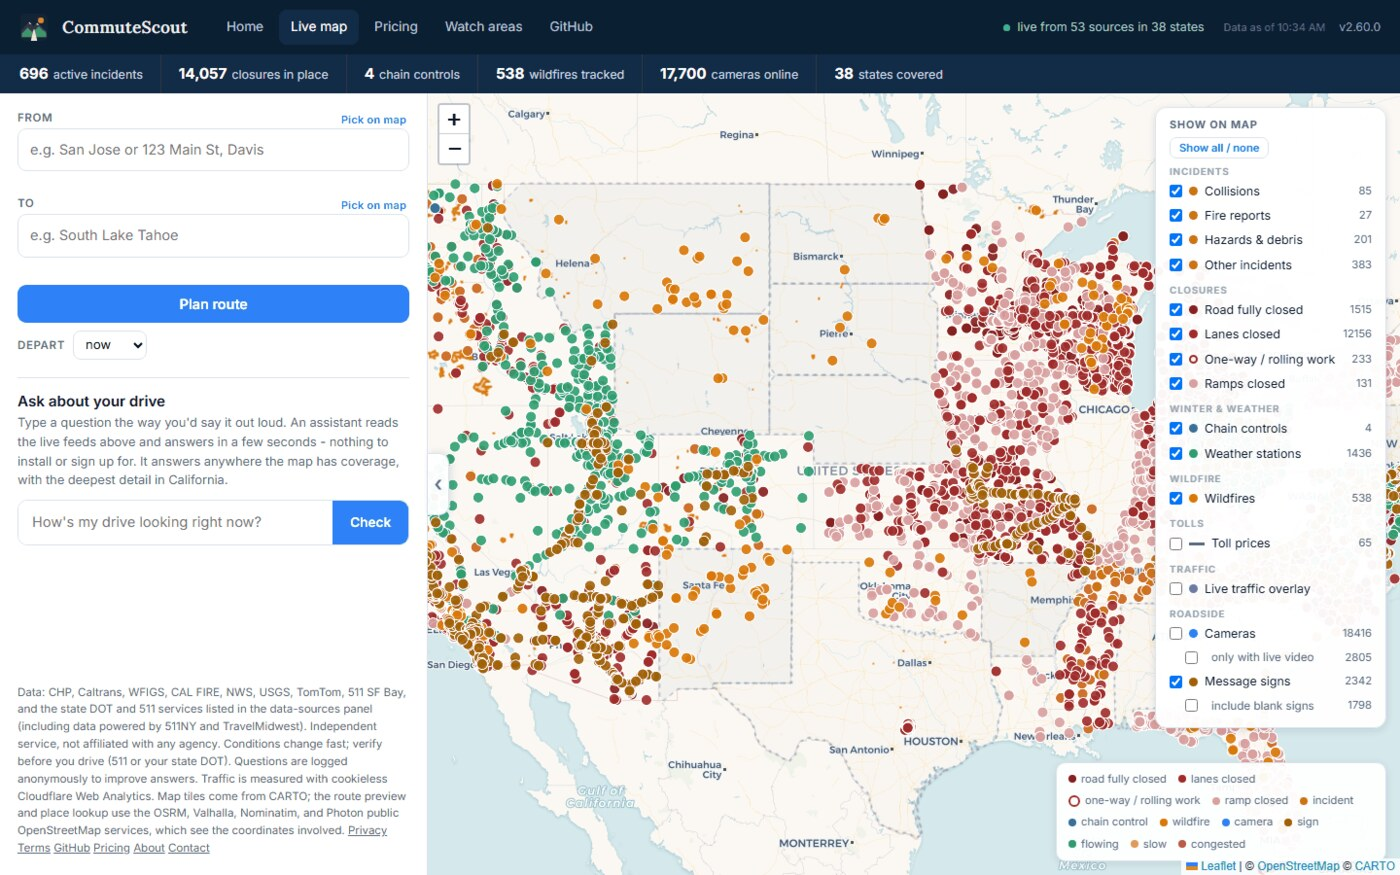
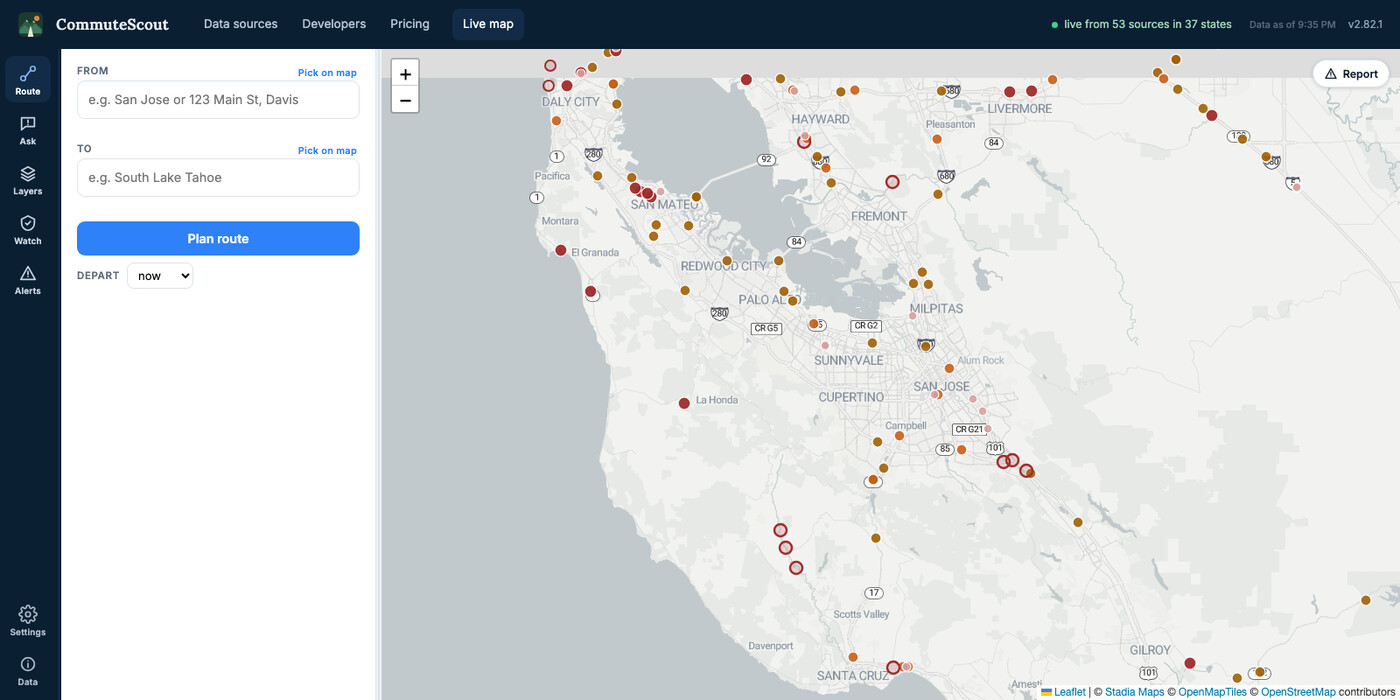
Refresh the CommuteScout feature: new map page, developer platform, Flare

diff --git a/index.html b/index.html
@@ -50,4 +50,4 @@ footer a:hover{color:#181a18;border-color:#181a18}
 :focus-visible{outline:2px solid #181a18;outline-offset:3px;border-radius:5px}
 @media(prefers-reduced-motion:reduce){*{transition:none!important}}
 .c,.hero{transition:border-color .15s ease}
-</style></head><body><div class="w"><header><h1>Nic Glazkov</h1><p class="tag">Building software about the physical world. CS student at Santa Clara University. Most of these are live, and I keep them running.</p><div class="links"><a href="https://github.com/nicglazkov">GitHub</a><a href="https://www.linkedin.com/in/nicholas-glazkov">LinkedIn</a></div></header><a class="hero" href="https://commutescout.com"><div class="ph"><img src="assets/cs-hero-map.jpg" alt="commutescout"></div><div class="in"><span class="flag">Featured</span><h3>commutescout</h3><p>Live road conditions from 53 official agency feeds across 37 states: incidents, closures, chain controls, cameras, wildfire perimeters, and toll pricing. Map, route planner, and an assistant you can ask about a drive. Also an MCP server.</p><div class="meta">commutescout.com</div></div></a><h2>Live services</h2><div class="g"><a class="c" href="https://getfiberwatch.com"><div class="ph"><img src="assets/fw-og.jpg" alt="fiberwatch" loading="lazy"></div><div class="in"><h3>fiberwatch</h3><p>Type any US address and see every ISP that files coverage there, then get an email when something better arrives. Built on 49.1 million FCC records covering 2,067 providers.</p><div class="meta">getfiberwatch.com</div></div></a><a class="c" href="https://github.com/nicglazkov/outagewatch"><div class="ph"><img src="assets/ow-social.jpg" alt="outagewatch" loading="lazy"></div><div class="in"><h3>outagewatch</h3><p>PG&amp;E outage alerts with live restoration estimates, and plain-language answers instead of a utility status code.</p><div class="meta">iPhone · Android · Web</div></div></a></div><h2>Apps</h2><div class="g"><a class="c" href="https://github.com/nicglazkov/chaincheck"><div class="ph"><img src="assets/cc-social.jpg" alt="chaincheck" loading="lazy"></div><div class="in"><h3>chaincheck</h3><p>Tahoe winter driving in one app: live chain controls, closures, pass weather, and resort snow. The chain rules are tested code, not prose.</p><div class="meta">iPhone · Android</div></div></a><a class="c" href="https://github.com/nicglazkov/brake-bedding"><div class="ph"><img src="assets/bb-tile.jpg" alt="brake-bedding" loading="lazy"></div><div class="in"><h3>brake-bedding</h3><p>A brake bedding coach that talks you through new pads using live GPS speed. No network permission, no ads, no tracking.</p><div class="meta">iPhone · Android</div></div></a><a class="c" href="https://github.com/nicglazkov/highway-radar-sabre-plus"><div class="ph"><img src="assets/sab-social.jpg" alt="highway-radar-sabre-plus" loading="lazy"></div><div class="in"><h3>highway-radar-sabre-plus</h3><p>Five live road feeds on your Highway Radar map: CHP, Waze, Caltrans closures, wildfires, and chain controls.</p><div class="meta">Android · 260+ downloads</div></div></a></div><h2>Desktop</h2><div class="g"><a class="c" href="https://github.com/nicglazkov/jotbay"><div class="ph"><img src="assets/jb-main.jpg" alt="jotbay" loading="lazy"></div><div class="in"><h3>jotbay</h3><p>Keeps a folder of markdown notes in sync across every machine you use, through a private git repository you own.</p><div class="meta">macOS · Windows · Linux · 150+ downloads</div></div></a><a class="c" href="https://github.com/nicglazkov/gcloud-dot"><div class="ph"><img src="assets/gd-tile.jpg" alt="gcloud-dot" loading="lazy"></div><div class="in"><h3>gcloud-dot</h3><p>Know before your cloud session expires, not after your next command fails. It measures the session and learns how long yours last.</p><div class="meta">macOS · Windows · Linux · 140+ downloads</div></div></a><a class="c" href="https://github.com/nicglazkov/overhang"><div class="ph"><img src="assets/oh-tile.jpg" alt="overhang" loading="lazy"></div><div class="in"><h3>overhang</h3><p>Recovers the menu bar icons macOS hides behind the notch. Under 2 MB, no private APIs, and no permissions at all.</p><div class="meta">macOS</div></div></a><a class="c" href="https://github.com/nicglazkov/pixel-audio-bridge"><div class="ph"><img src="assets/pab-social.jpg" alt="pixel-audio-bridge" loading="lazy"></div><div class="in"><h3>pixel-audio-bridge</h3><p>Hear your Android phone through the headphones already connected to your Mac. Put them on and it starts by itself.</p><div class="meta">macOS</div></div></a></div><h2>Longer-running</h2><div class="g"><a class="c" href="https://chalkboard.studio"><div class="ph"><img src="assets/cb-og.jpg" alt="Chalkboard" loading="lazy"></div><div class="in"><h3>Chalkboard</h3><p>Turns any topic into a narrated explainer video through a pipeline that drafts, fact-checks, animates, and renders it. Open source; the hosted version is invite-only.</p><div class="meta">chalkboard.studio</div></div></a><a class="c" href="https://github.com/FH-EngineeringClub/UR10_Workspace"><div class="ph"><img src="assets/ur10.jpg" alt="UR10 chess robot" loading="lazy"></div><div class="in"><h3>UR10 chess robot</h3><p>A written-off industrial arm that a few of us rebuilt to play chess. It has not lost to a human yet.</p><div class="meta">Foothill Engineering Club</div></div></a></div><footer><span>Interim page. A proper one is on the way.</span><a href="/gta/">older: GTA car tracker</a></footer></div></body></html>
+</style></head><body><div class="w"><header><h1>Nic Glazkov</h1><p class="tag">Building software about the physical world. CS student at Santa Clara University. Most of these are live, and I keep them running.</p><div class="links"><a href="https://github.com/nicglazkov">GitHub</a><a href="https://www.linkedin.com/in/nicholas-glazkov">LinkedIn</a></div></header><a class="hero" href="https://commutescout.com"><div class="ph"><img src="assets/cs-hero-map.jpg" alt="commutescout"></div><div class="in"><span class="flag">Featured</span><h3>commutescout</h3><p>Live road conditions from 53 official agency feeds across 37 states: incidents, closures, chain controls, cameras, wildfire perimeters, and toll pricing. Map, route planner, and an assistant you can ask about a drive. The same data is a public REST API and an MCP server, and Flare lets anyone plug in their own alert source.</p><div class="meta">commutescout.com</div></div></a><h2>Live services</h2><div class="g"><a class="c" href="https://getfiberwatch.com"><div class="ph"><img src="assets/fw-og.jpg" alt="fiberwatch" loading="lazy"></div><div class="in"><h3>fiberwatch</h3><p>Type any US address and see every ISP that files coverage there, then get an email when something better arrives. Built on 49.1 million FCC records covering 2,067 providers.</p><div class="meta">getfiberwatch.com</div></div></a><a class="c" href="https://github.com/nicglazkov/outagewatch"><div class="ph"><img src="assets/ow-social.jpg" alt="outagewatch" loading="lazy"></div><div class="in"><h3>outagewatch</h3><p>PG&amp;E outage alerts with live restoration estimates, and plain-language answers instead of a utility status code.</p><div class="meta">iPhone · Android · Web</div></div></a></div><h2>Apps</h2><div class="g"><a class="c" href="https://github.com/nicglazkov/chaincheck"><div class="ph"><img src="assets/cc-social.jpg" alt="chaincheck" loading="lazy"></div><div class="in"><h3>chaincheck</h3><p>Tahoe winter driving in one app: live chain controls, closures, pass weather, and resort snow. The chain rules are tested code, not prose.</p><div class="meta">iPhone · Android</div></div></a><a class="c" href="https://github.com/nicglazkov/brake-bedding"><div class="ph"><img src="assets/bb-tile.jpg" alt="brake-bedding" loading="lazy"></div><div class="in"><h3>brake-bedding</h3><p>A brake bedding coach that talks you through new pads using live GPS speed. No network permission, no ads, no tracking.</p><div class="meta">iPhone · Android</div></div></a><a class="c" href="https://github.com/nicglazkov/highway-radar-sabre-plus"><div class="ph"><img src="assets/sab-social.jpg" alt="highway-radar-sabre-plus" loading="lazy"></div><div class="in"><h3>highway-radar-sabre-plus</h3><p>Five live road feeds on your Highway Radar map: CHP, Waze, Caltrans closures, wildfires, and chain controls.</p><div class="meta">Android · 260+ downloads</div></div></a></div><h2>Desktop</h2><div class="g"><a class="c" href="https://github.com/nicglazkov/jotbay"><div class="ph"><img src="assets/jb-main.jpg" alt="jotbay" loading="lazy"></div><div class="in"><h3>jotbay</h3><p>Keeps a folder of markdown notes in sync across every machine you use, through a private git repository you own.</p><div class="meta">macOS · Windows · Linux · 150+ downloads</div></div></a><a class="c" href="https://github.com/nicglazkov/gcloud-dot"><div class="ph"><img src="assets/gd-tile.jpg" alt="gcloud-dot" loading="lazy"></div><div class="in"><h3>gcloud-dot</h3><p>Know before your cloud session expires, not after your next command fails. It measures the session and learns how long yours last.</p><div class="meta">macOS · Windows · Linux · 140+ downloads</div></div></a><a class="c" href="https://github.com/nicglazkov/overhang"><div class="ph"><img src="assets/oh-tile.jpg" alt="overhang" loading="lazy"></div><div class="in"><h3>overhang</h3><p>Recovers the menu bar icons macOS hides behind the notch. Under 2 MB, no private APIs, and no permissions at all.</p><div class="meta">macOS</div></div></a><a class="c" href="https://github.com/nicglazkov/pixel-audio-bridge"><div class="ph"><img src="assets/pab-social.jpg" alt="pixel-audio-bridge" loading="lazy"></div><div class="in"><h3>pixel-audio-bridge</h3><p>Hear your Android phone through the headphones already connected to your Mac. Put them on and it starts by itself.</p><div class="meta">macOS</div></div></a></div><h2>Longer-running</h2><div class="g"><a class="c" href="https://chalkboard.studio"><div class="ph"><img src="assets/cb-og.jpg" alt="Chalkboard" loading="lazy"></div><div class="in"><h3>Chalkboard</h3><p>Turns any topic into a narrated explainer video through a pipeline that drafts, fact-checks, animates, and renders it. Open source; the hosted version is invite-only.</p><div class="meta">chalkboard.studio</div></div></a><a class="c" href="https://github.com/FH-EngineeringClub/UR10_Workspace"><div class="ph"><img src="assets/ur10.jpg" alt="UR10 chess robot" loading="lazy"></div><div class="in"><h3>UR10 chess robot</h3><p>A written-off industrial arm that a few of us rebuilt to play chess. It has not lost to a human yet.</p><div class="meta">Foothill Engineering Club</div></div></a></div><footer><span>Interim page. A proper one is on the way.</span><a href="/gta/">older: GTA car tracker</a></footer></div></body></html>
